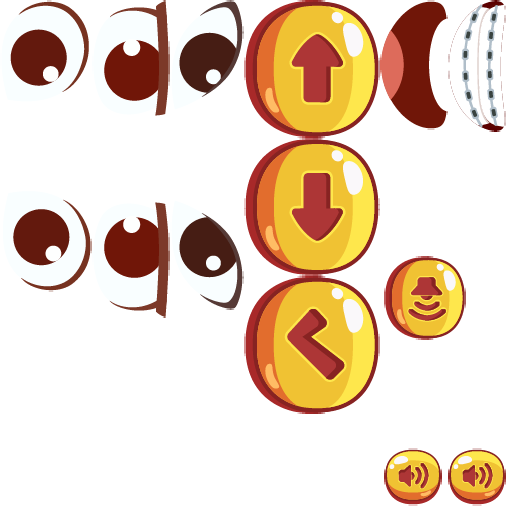
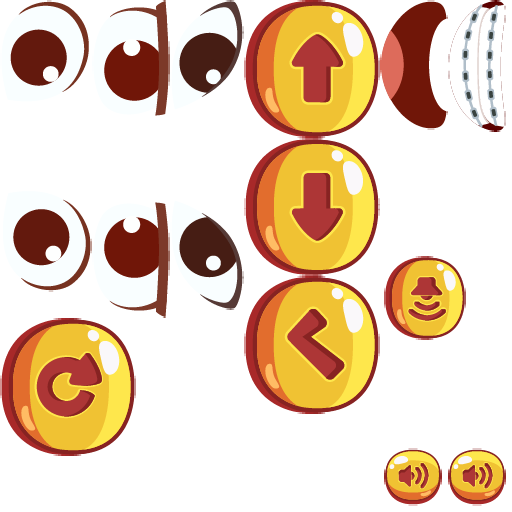
0.2

Changed region(s): [[0.0, 0.5938, 0.2812, 0.9062]]

diff --git a/scripts/c3runtime.js b/scripts/c3runtime.js
@@ -3908,9 +3908,7 @@ self.C3_GetObjectRefTable = function () {
 		C3.Plugins.System.Acts.WaitForPreviousActions,
 		C3.Plugins.DrawingCanvas.Acts.SaveImage,
 		C3.Plugins.Sprite.Acts.LoadURL,
-		C3.Plugins.DrawingCanvas.Exps.SavedImageURL,
-		C3.Plugins.DrawingCanvas.Acts.ClearCanvas,
-		C3.Plugins.System.Exps.rgba
+		C3.Plugins.DrawingCanvas.Exps.SavedImageURL
 	];
 };
 self.C3_JsPropNameTable = [
@@ -3949,7 +3947,7 @@ self.C3_JsPropNameTable = [
 	{DrawingCanvas: 0},
 	{image_loader: 0},
 	{result_badge: 0},
-	{result_button_prev: 0},
+	{result_button_restart: 0},
 	{DragDrop: 0},
 	{eyes: 0},
 	{nose: 0},
@@ -4158,11 +4156,7 @@ self.C3_ExpressionFuncs = [
 		},
 		() => "done",
 		() => 75,
-		() => "back",
-		p => {
-			const f0 = p._GetNode(0).GetBoundMethod();
-			return () => f0(0, 0, 0, 0);
-		}
+		() => "back"
 ];
 
 

diff --git a/index.html b/index.html
@@ -2,7 +2,7 @@
 <html>
 <head>
 <meta charset="UTF-8">
-<title>My Friend Face</title>
+<title>My Friend&#39;s Face</title>
 <meta name="viewport" content="width=device-width, initial-scale=1.0, maximum-scale=1.0, minimum-scale=1.0, user-scalable=no">
 
 <meta name="generator" content="Scirra Construct">
